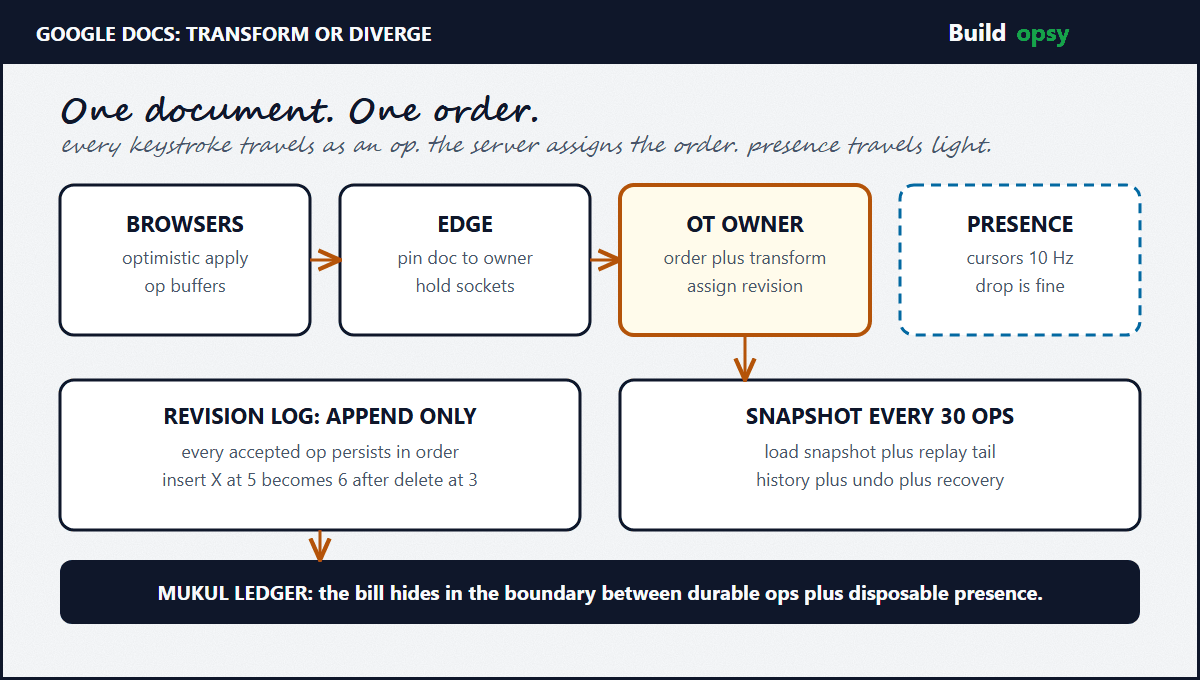
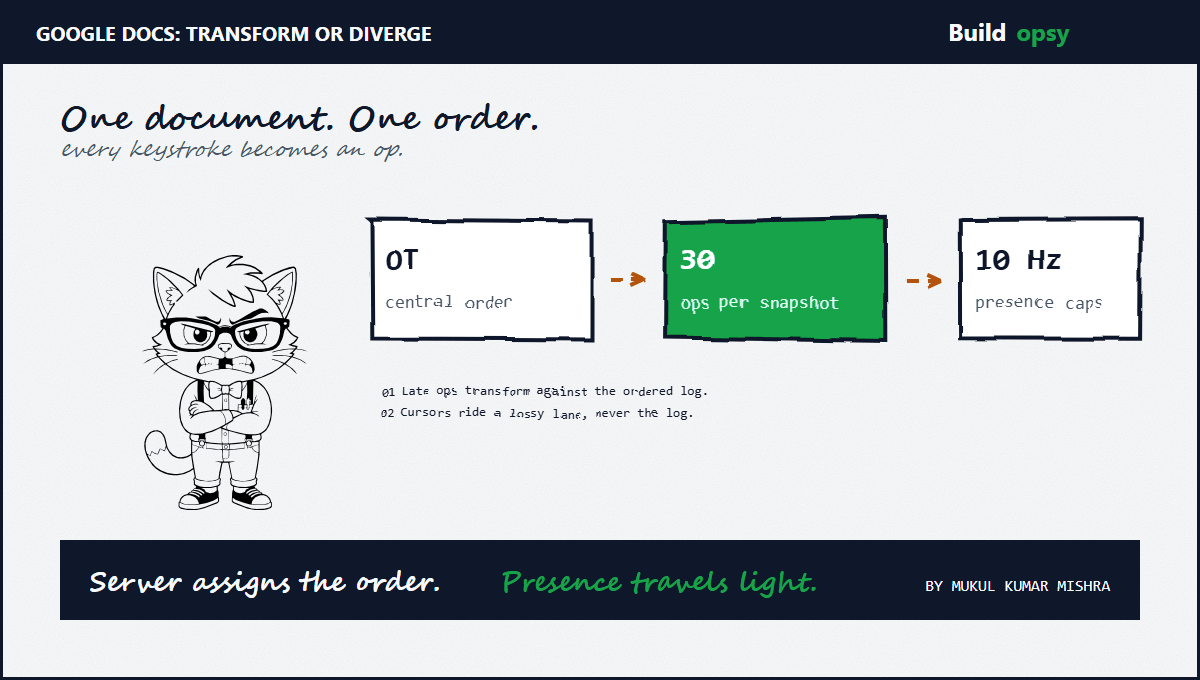
Rebuild Docs and WhatsApp figures in studio meme style with synced alts

Changed region(s): [[0.0308, 0.1544, 0.9558, 0.9265], [0.0925, 0.3088, 0.2158, 0.3397]]

diff --git a/system-design/google-docs-system-design.html b/system-design/google-docs-system-design.html
@@ -85,7 +85,7 @@
       <aside class="tip" style="margin-bottom:30px;"><strong>What is fact plus what is math?</strong> The OT protocol plus revision discipline below come from Google engineering posts plus the Wave plus Jupiter lineage. RPS plus cost figures are my labeled scenario model. Replace my assumptions with your telemetry wherever they differ.</aside>
 
       <article class="prose">
-      <figure class="article-figure"><img loading="eager" fetchpriority="high" decoding="async" src="../images/articles/google-docs-ot-transform.svg" alt="Google Docs collaboration diagram showing OT owner plus revision log plus presence lane" width="1200" height="680"><figcaption>Figure 1. Every keystroke follows one path: browser to edge to OT owner plus revision log. Presence rides beside it, never inside it.</figcaption></figure>
+      <figure class="article-figure"><img loading="eager" fetchpriority="high" decoding="async" src="../images/articles/google-docs-ot-transform.svg" alt="Three panels show central OT ordering plus 30-op snapshots plus 10 Hz presence caps" width="1200" height="680"><figcaption>Figure 1. Every keystroke follows one path: browser to edge to OT owner plus revision log. Presence rides beside it, never inside it.</figcaption></figure>
 
       <section><h2>1. The Moment Typing Became A Distributed System</h2>
         <p>Most products can queue writes politely. A word processor cannot. When a lawyer types a comma, the comma must appear now, not after consensus across three zones. When a second lawyer deletes the same sentence, both screens must converge without a merge dialog. When the train tunnel eats the network, the offline paragraphs must rejoin the document without duplicating the exhibit list.</p>
@@ -156,7 +156,7 @@
           <tr><td>Product data plus search</td><td>70k to 150k</td><td>permissions, comments, index</td></tr>
           <tr><td><strong>Total scenario</strong></td><td><strong>480k to 910k</strong></td><td><strong>16k to 30k per day</strong></td></tr>
         </tbody></table>
-      <figure class="article-figure"><img loading="lazy" decoding="async" src="../images/articles/google-docs-cost-ledger.svg" alt="Google Docs cost ledger splitting edge plus owners plus op log plus product data" width="1200" height="680"><figcaption>Figure 2. The ledger in one cartoon. Ordering is cheap. Fanning the order out plus keeping every revision is the bill.</figcaption></figure>
+      <figure class="article-figure"><img loading="lazy" decoding="async" src="../images/articles/google-docs-cost-ledger.svg" alt="A bar chart compares edge plus owner plus op log plus product data cost ranges" width="1200" height="680"><figcaption>Figure 2. The ledger in one cartoon. Ordering is cheap. Fanning the order out plus keeping every revision is the bill.</figcaption></figure>
         <p>Model snapshot storage against your own retention with the <a href="../tools/aws-s3-storage-cost-calculator.html">S3 storage cost calculator</a>.</p>
       </section>
 

diff --git a/system-design/whatsapp-system-design.html b/system-design/whatsapp-system-design.html
@@ -85,7 +85,7 @@
       <aside class="tip" style="margin-bottom:30px;"><strong>What is fact plus what is math?</strong> The relay discipline plus Signal properties below come from public engineering accounts plus protocol docs. Traffic plus cost figures are my labeled scenario model. Replace my assumptions with your telemetry wherever they differ.</aside>
 
       <article class="prose">
-      <figure class="article-figure"><img loading="eager" fetchpriority="high" decoding="async" src="../images/articles/whatsapp-relay-lane.svg" alt="WhatsApp relay diagram showing Erlang gateway plus session registry plus offline inbox" width="1200" height="680"><figcaption>Figure 1. Every message follows one route: phone to gateway to router, then socket or inbox. The server carries ciphertext it cannot read.</figcaption></figure>
+      <figure class="article-figure"><img loading="eager" fetchpriority="high" decoding="async" src="../images/articles/whatsapp-relay-lane.svg" alt="Three panels show one inbox row per direct message plus 100 rows per mid-size group plus 3072 rows per full group" width="1200" height="680"><figcaption>Figure 1. Every message follows one route: phone to gateway to router, then socket or inbox. The server carries ciphertext it cannot read.</figcaption></figure>
 
       <section><h2>1. The Moment A Message Became A Routing Problem</h2>
         <p>Most messaging designs start with a table. Sender writes a row. Recipient reads the row. Add an index plus call it a day. That model collapses the week two billion people press send while holding a socket open doing nothing. The load shaping the architecture is not the message rate. It is the count of idle connections waiting for a push that may never come.</p>
@@ -157,7 +157,7 @@
           <tr><td>Media plus keys</td><td>110k to 210k</td><td>blob TTL, egress, directory</td></tr>
           <tr><td><strong>Total scenario</strong></td><td><strong>540k to 980k</strong></td><td><strong>18k to 33k per day</strong></td></tr>
         </tbody></table>
-      <figure class="article-figure"><img loading="lazy" decoding="async" src="../images/articles/whatsapp-cost-ledger.svg" alt="WhatsApp cost ledger splitting gateway fleet plus inbox plus presence plus media" width="1200" height="680"><figcaption>Figure 2. The ledger in one cartoon. Sockets dominate. Messages are the minority. Forgetting keeps both small.</figcaption></figure>
+      <figure class="article-figure"><img loading="lazy" decoding="async" src="../images/articles/whatsapp-cost-ledger.svg" alt="A flow diagram shows phone plus gateway plus router plus transient inbox" width="1200" height="680"><figcaption>Figure 2. The ledger in one cartoon. Sockets dominate. Messages are the minority. Forgetting keeps both small.</figcaption></figure>
         <p>Size the socket fleet against your own concurrency with the <a href="../tools/connection-pool-calculator.html">connection pool calculator</a>.</p>
       </section>
 
